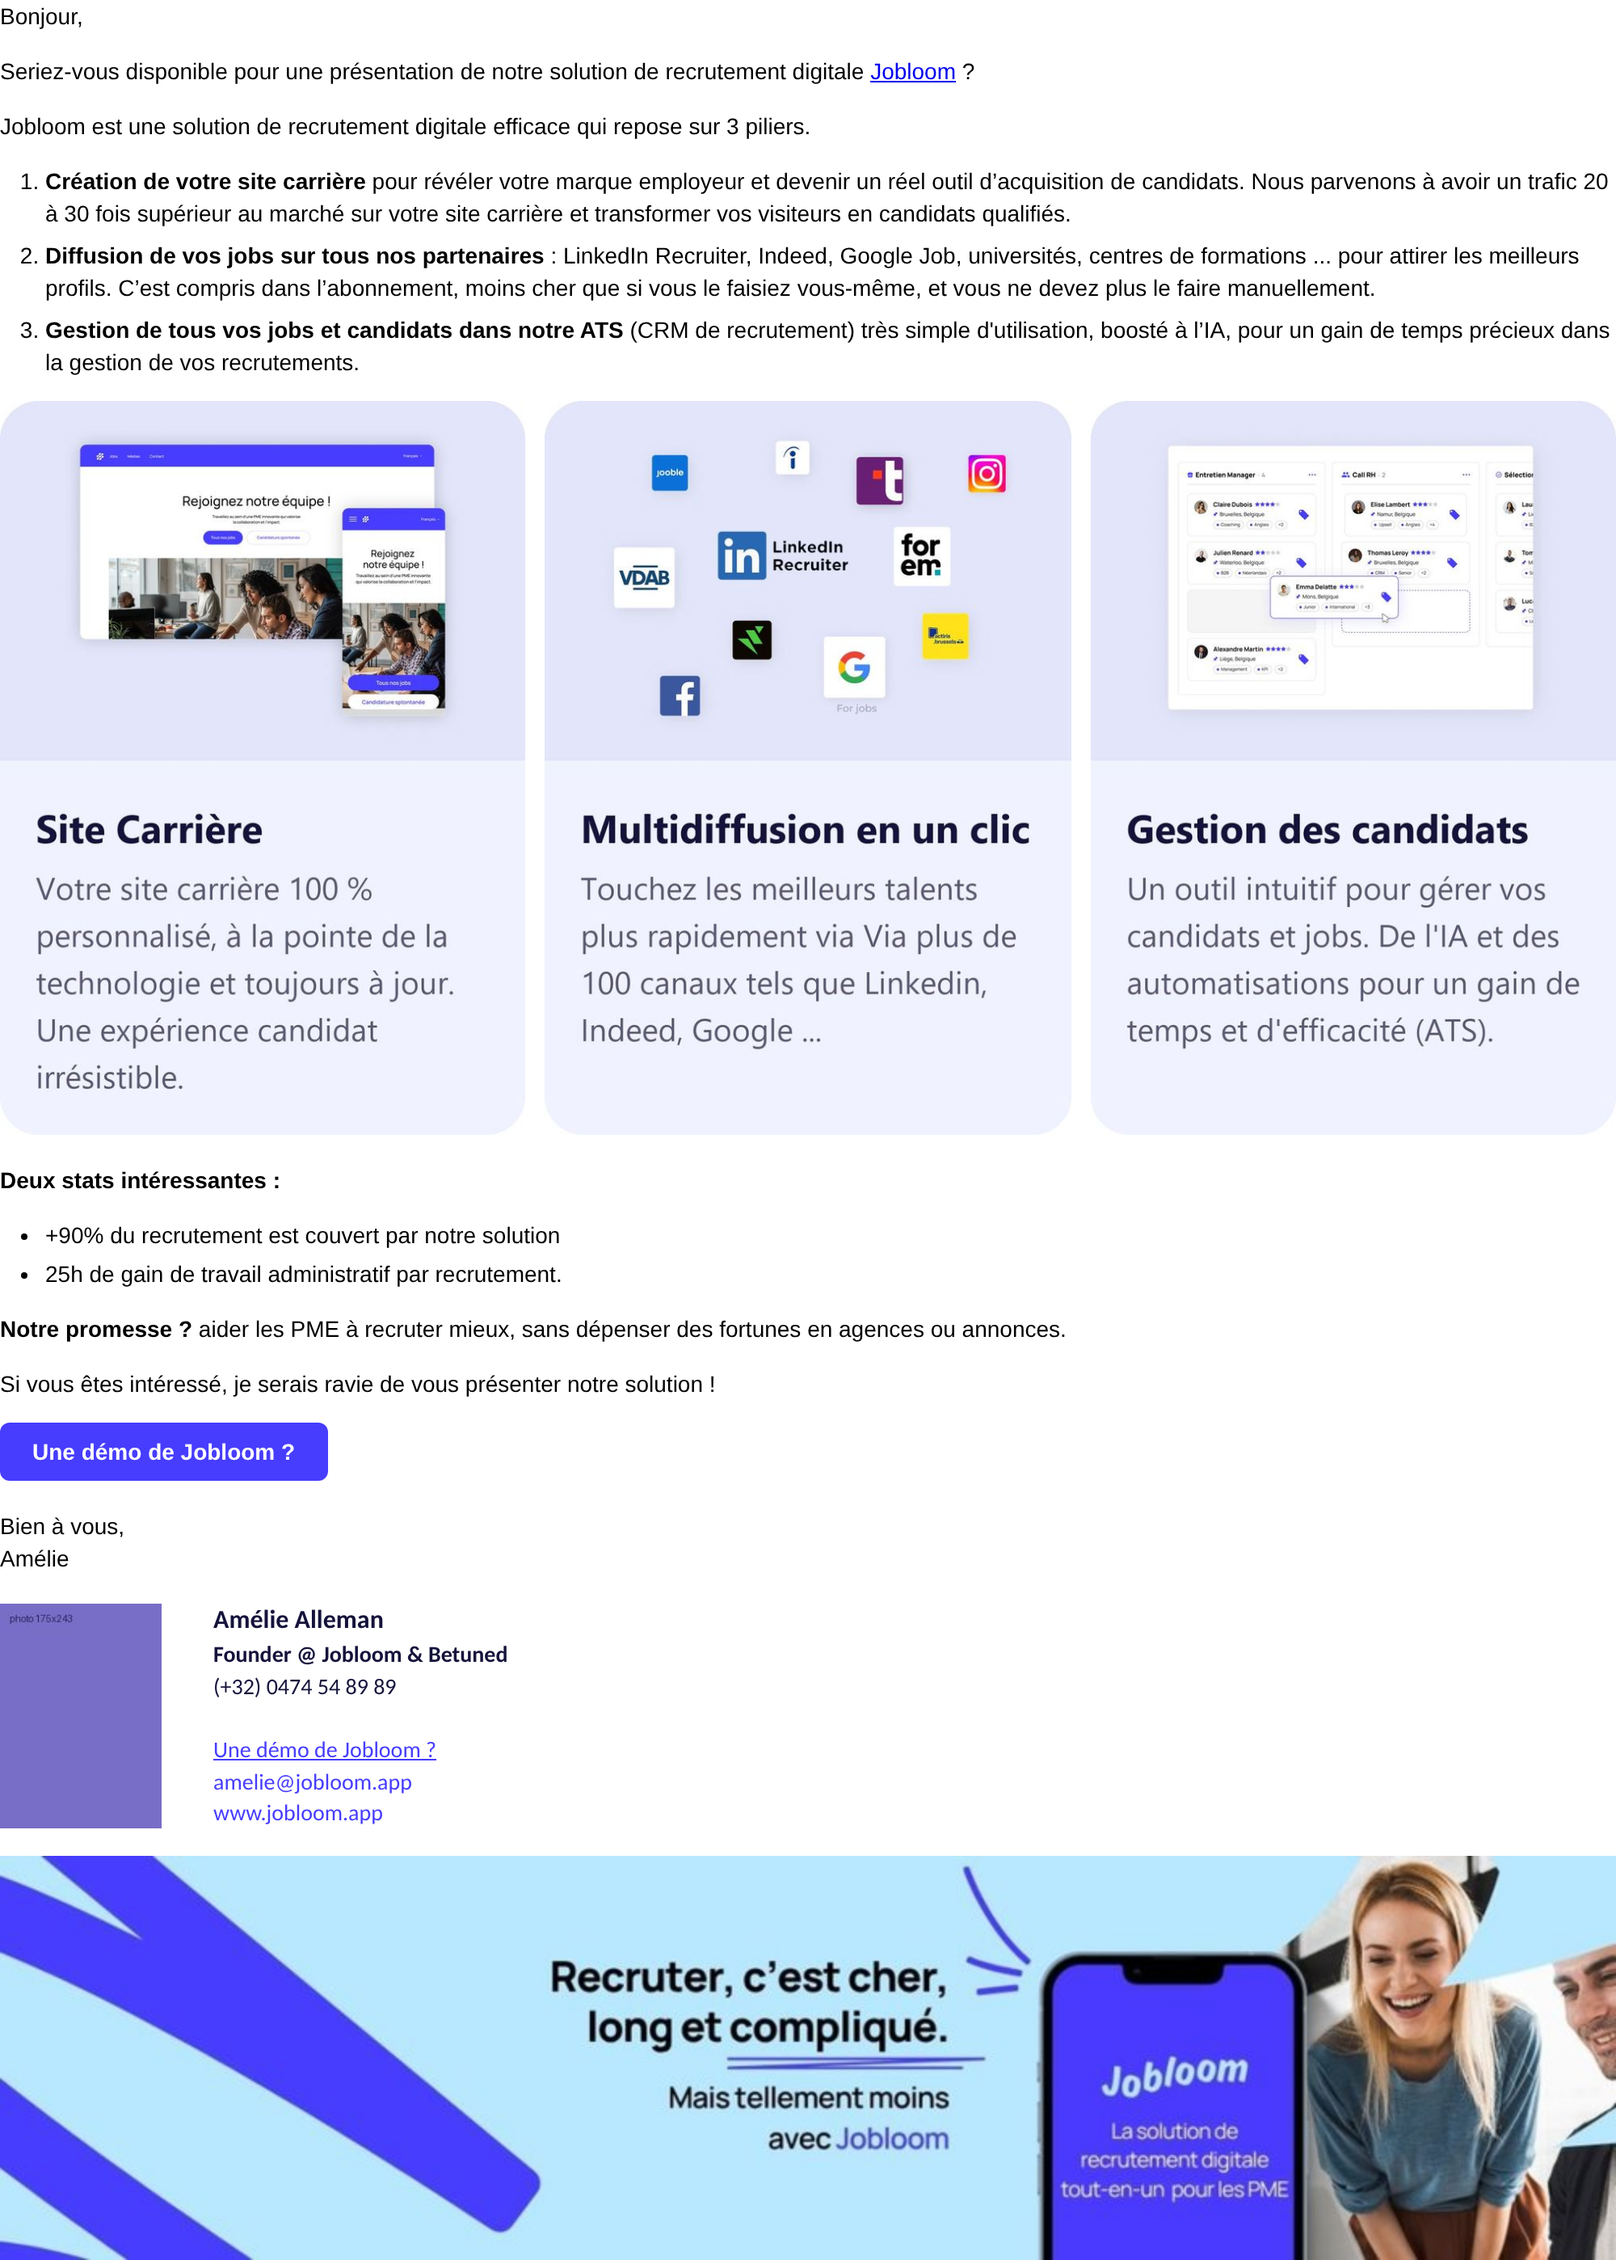
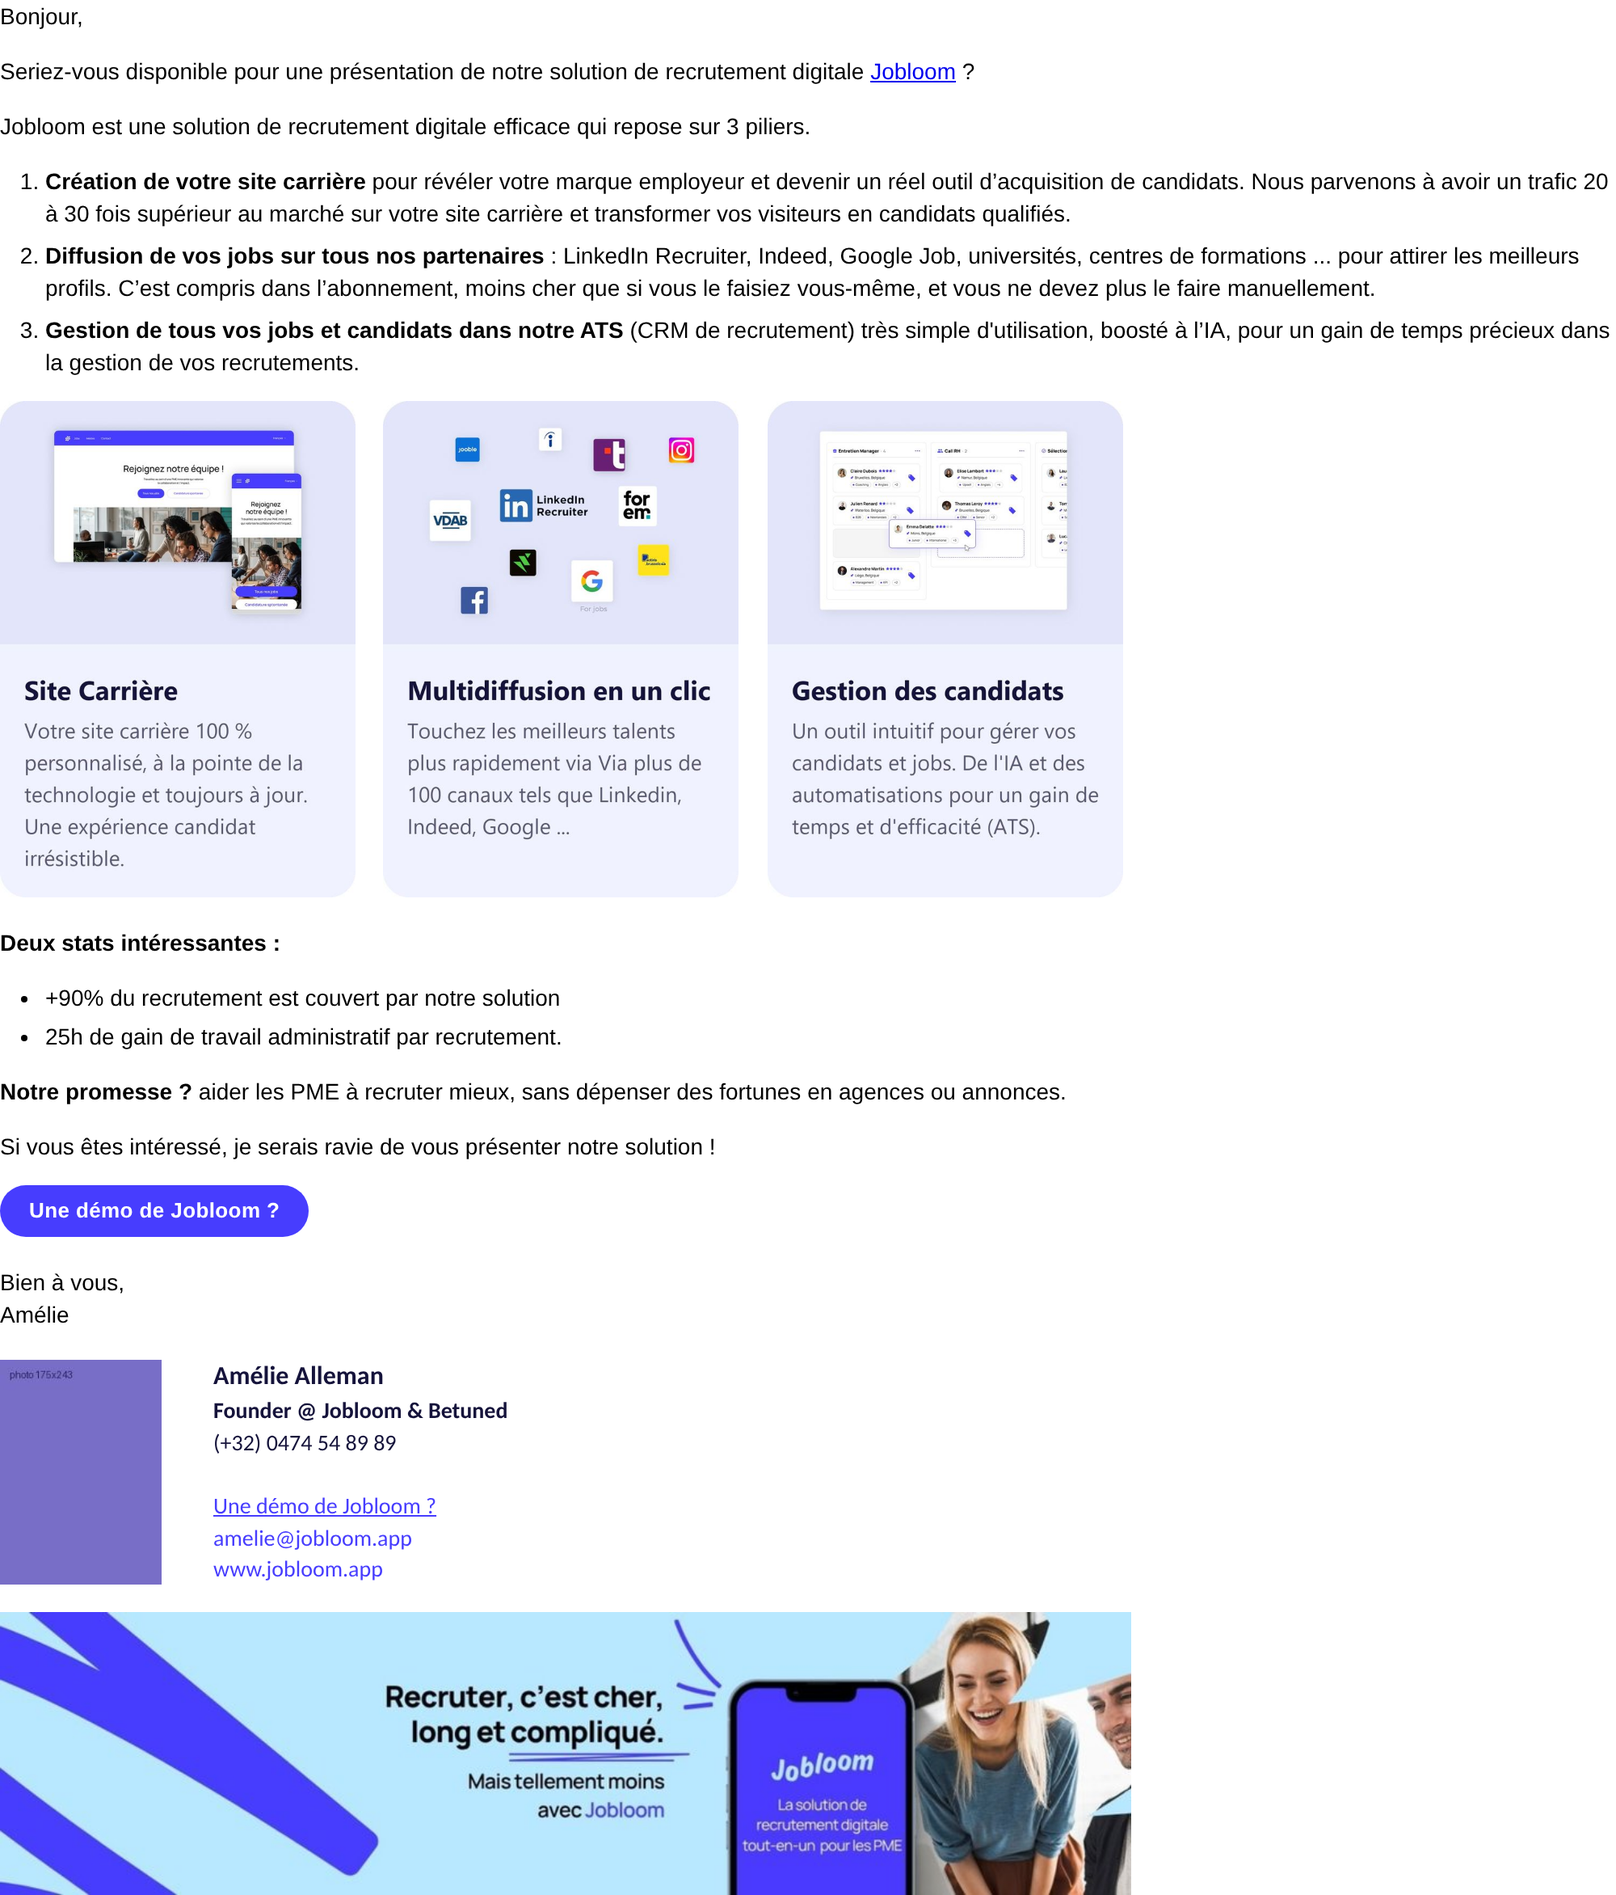
Email Amélie : images réduites (piliers 220 px, bannière 700 px), bouton affiné
Claude-Session: https://claude.ai/code/session_01XTeiUwKp5X2MxE8FSKHjU9

Changed region(s): [[0.0, 0.0, 1.0, 0.7163], [0.0, 0.7163, 1.0, 1.0]]

diff --git a/email-livrable/email_1st_Amelie_final.html b/email-livrable/email_1st_Amelie_final.html
@@ -39,7 +39,7 @@ li{margin-left:0 !important;}</style>
 <li style="margin:0 0 6px 0"><b>Diffusion de vos jobs sur tous nos partenaires&nbsp;</b>: LinkedIn Recruiter, Indeed, Google Job, universités, centres de formations ... pour attirer les meilleurs profils. C’est compris dans l’abonnement, moins cher que si vous le faisiez vous-même, et vous ne devez plus le faire manuellement.</li>
 <li style="margin:0"><b>Gestion de tous vos jobs et candidats dans notre ATS</b> (CRM de recrutement) très simple d'utilisation, boosté à l’IA, pour un gain de temps précieux dans la gestion de vos recrutements.</li>
 </ol>
-<table role="presentation" class="cards" cellpadding="0" cellspacing="0" border="0" width="100%" style="border-collapse:collapse;width:100%;margin:4px 0 18px 0"><tr><td class="cardtd" width="33%" valign="top" style="width:33.33%;padding:0 8px 0 0"><a href="https://www.jobloom.app/" style="text-decoration:none"><!--[if mso]><img src="https://jobloom-landing-pages-massimoharnisfeger-hues-projects.vercel.app/signature/pilier-1.jpg" width="258" height="360" alt="Site Carrière" style="display:block;width:258px;height:360px;border:0"><![endif]--><!--[if !mso]><!--><img src="https://jobloom-landing-pages-massimoharnisfeger-hues-projects.vercel.app/signature/pilier-1.jpg" width="660" height="921" alt="Site Carrière" style="display:block;width:100%;max-width:330px;height:auto;border:0"><!--<![endif]--></a></td><td class="cardtd" width="33%" valign="top" style="width:33.33%;padding:0 4px"><a href="https://www.jobloom.app/" style="text-decoration:none"><!--[if mso]><img src="https://jobloom-landing-pages-massimoharnisfeger-hues-projects.vercel.app/signature/pilier-2.jpg" width="258" height="360" alt="Multidiffusion en un clic" style="display:block;width:258px;height:360px;border:0"><![endif]--><!--[if !mso]><!--><img src="https://jobloom-landing-pages-massimoharnisfeger-hues-projects.vercel.app/signature/pilier-2.jpg" width="660" height="921" alt="Multidiffusion en un clic" style="display:block;width:100%;max-width:330px;height:auto;border:0"><!--<![endif]--></a></td><td class="cardtd" width="33%" valign="top" style="width:33.33%;padding:0 0 0 8px"><a href="https://www.jobloom.app/" style="text-decoration:none"><!--[if mso]><img src="https://jobloom-landing-pages-massimoharnisfeger-hues-projects.vercel.app/signature/pilier-3.jpg" width="258" height="360" alt="Gestion des candidats" style="display:block;width:258px;height:360px;border:0"><![endif]--><!--[if !mso]><!--><img src="https://jobloom-landing-pages-massimoharnisfeger-hues-projects.vercel.app/signature/pilier-3.jpg" width="660" height="921" alt="Gestion des candidats" style="display:block;width:100%;max-width:330px;height:auto;border:0"><!--<![endif]--></a></td></tr></table>
+<table role="presentation" class="cards" cellpadding="0" cellspacing="0" border="0" width="100%" style="border-collapse:collapse;width:100%;max-width:700px;margin:4px 0 18px 0"><tr><td class="cardtd" width="33%" valign="top" style="width:33.33%;padding:0 8px 0 0"><a href="https://www.jobloom.app/" style="text-decoration:none"><!--[if mso]><img src="https://jobloom-landing-pages-massimoharnisfeger-hues-projects.vercel.app/signature/pilier-1.jpg" width="220" height="307" alt="Site Carrière" style="display:block;width:220px;height:307px;border:0"><![endif]--><!--[if !mso]><!--><img src="https://jobloom-landing-pages-massimoharnisfeger-hues-projects.vercel.app/signature/pilier-1.jpg" width="660" height="921" alt="Site Carrière" style="display:block;width:100%;max-width:220px;height:auto;border:0"><!--<![endif]--></a></td><td class="cardtd" width="33%" valign="top" style="width:33.33%;padding:0 4px"><a href="https://www.jobloom.app/" style="text-decoration:none"><!--[if mso]><img src="https://jobloom-landing-pages-massimoharnisfeger-hues-projects.vercel.app/signature/pilier-2.jpg" width="220" height="307" alt="Multidiffusion en un clic" style="display:block;width:220px;height:307px;border:0"><![endif]--><!--[if !mso]><!--><img src="https://jobloom-landing-pages-massimoharnisfeger-hues-projects.vercel.app/signature/pilier-2.jpg" width="660" height="921" alt="Multidiffusion en un clic" style="display:block;width:100%;max-width:220px;height:auto;border:0"><!--<![endif]--></a></td><td class="cardtd" width="33%" valign="top" style="width:33.33%;padding:0 0 0 8px"><a href="https://www.jobloom.app/" style="text-decoration:none"><!--[if mso]><img src="https://jobloom-landing-pages-massimoharnisfeger-hues-projects.vercel.app/signature/pilier-3.jpg" width="220" height="307" alt="Gestion des candidats" style="display:block;width:220px;height:307px;border:0"><![endif]--><!--[if !mso]><!--><img src="https://jobloom-landing-pages-massimoharnisfeger-hues-projects.vercel.app/signature/pilier-3.jpg" width="660" height="921" alt="Gestion des candidats" style="display:block;width:100%;max-width:220px;height:auto;border:0"><!--<![endif]--></a></td></tr></table>
 <p style="margin:0 0 14px 0"><b>Deux stats intéressantes&nbsp;:</b></p>
 <ul class="list" style="margin:0 0 14px 0;padding-left:28px">
 <li style="margin:0 0 4px 0">+90% du recrutement est couvert par notre solution</li>
@@ -49,12 +49,12 @@ li{margin-left:0 !important;}</style>
 <p style="margin:0 0 14px 0">Si vous êtes intéressé, je serais ravie de vous présenter notre solution&nbsp;!</p>
 <!--[if mso]>
 <table role="presentation" cellpadding="0" cellspacing="0" border="0"><tr><td style="padding:0 0 18px 0">
-<v:roundrect xmlns:v="urn:schemas-microsoft-com:vml" xmlns:w="urn:schemas-microsoft-com:office:word" href="https://calendly.com/amelie-betuned" style="height:36px;v-text-anchor:middle;width:200px" arcsize="20%" stroke="f" fillcolor="#473DFE"><w:anchorlock/><center style="color:#FFFFFF;font-family:Arial,Helvetica,sans-serif;font-size:14px;font-weight:bold">Une démo de Jobloom ?</center></v:roundrect>
+<v:roundrect xmlns:v="urn:schemas-microsoft-com:vml" xmlns:w="urn:schemas-microsoft-com:office:word" href="https://calendly.com/amelie-betuned" style="height:32px;v-text-anchor:middle;width:180px" arcsize="50%" stroke="f" fillcolor="#473DFE"><w:anchorlock/><center style="color:#FFFFFF;font-family:Arial,Helvetica,sans-serif;font-size:13px;font-weight:bold">Une démo de Jobloom ?</center></v:roundrect>
 </td></tr></table>
 <![endif]-->
 <!--[if !mso]><!-->
-<table role="presentation" cellpadding="0" cellspacing="0" border="0" style="border-collapse:separate;margin:0 0 18px 0"><tr><td align="center" bgcolor="#473DFE" style="background:#473DFE;border-radius:6px">
-<a href="https://calendly.com/amelie-betuned" style="display:inline-block;padding:9px 20px;font-family:Arial,Helvetica,sans-serif;font-size:14px;line-height:18px;font-weight:bold;color:#FFFFFF;text-decoration:none;border-radius:6px">Une démo de Jobloom ?</a>
+<table role="presentation" cellpadding="0" cellspacing="0" border="0" style="border-collapse:separate;margin:0 0 18px 0"><tr><td align="center" bgcolor="#473DFE" style="background:#473DFE;border-radius:999px">
+<a href="https://calendly.com/amelie-betuned" style="display:inline-block;padding:7px 18px;font-family:Arial,Helvetica,sans-serif;font-size:13px;line-height:18px;font-weight:bold;letter-spacing:0.2px;color:#FFFFFF;text-decoration:none;border-radius:999px">Une démo de Jobloom ?</a>
 </td></tr></table>
 <!--<![endif]-->
 <p style="margin:0 0 18px 0">Bien à vous,<br>Amélie</p>
@@ -73,8 +73,8 @@ li{margin-left:0 !important;}</style>
 </tr>
 </table>
 <table role="presentation" cellpadding="0" cellspacing="0" border="0" width="100%" style="border-collapse:collapse;width:100%;margin:16px 0 0 0"><tr><td align="left" style="padding:0"><a href="https://www.jobloom.app/agenda" style="text-decoration:none">
-<!--[if mso]><img src="https://jobloom-landing-pages-massimoharnisfeger-hues-projects.vercel.app/signature/banniere-jobloom.jpg" width="800" height="200" alt="Recruter, c'est cher, long et compliqué. Mais tellement moins avec Jobloom" style="display:block;width:800px;height:200px;border:0"><![endif]-->
-<!--[if !mso]><!--><img src="https://jobloom-landing-pages-massimoharnisfeger-hues-projects.vercel.app/signature/banniere-jobloom.jpg" width="1000" height="250" alt="Recruter, c'est cher, long et compliqué. Mais tellement moins avec Jobloom" style="display:block;width:100%;height:auto;border:0"><!--<![endif]-->
+<!--[if mso]><img src="https://jobloom-landing-pages-massimoharnisfeger-hues-projects.vercel.app/signature/banniere-jobloom.jpg" width="700" height="175" alt="Recruter, c'est cher, long et compliqué. Mais tellement moins avec Jobloom" style="display:block;width:700px;height:175px;border:0"><![endif]-->
+<!--[if !mso]><!--><img src="https://jobloom-landing-pages-massimoharnisfeger-hues-projects.vercel.app/signature/banniere-jobloom.jpg" width="1000" height="250" alt="Recruter, c'est cher, long et compliqué. Mais tellement moins avec Jobloom" style="display:block;width:100%;max-width:700px;height:auto;border:0"><!--<![endif]-->
 </a></td></tr></table>
 </div>
 <!--[if mso]></td></tr></table><![endif]-->
